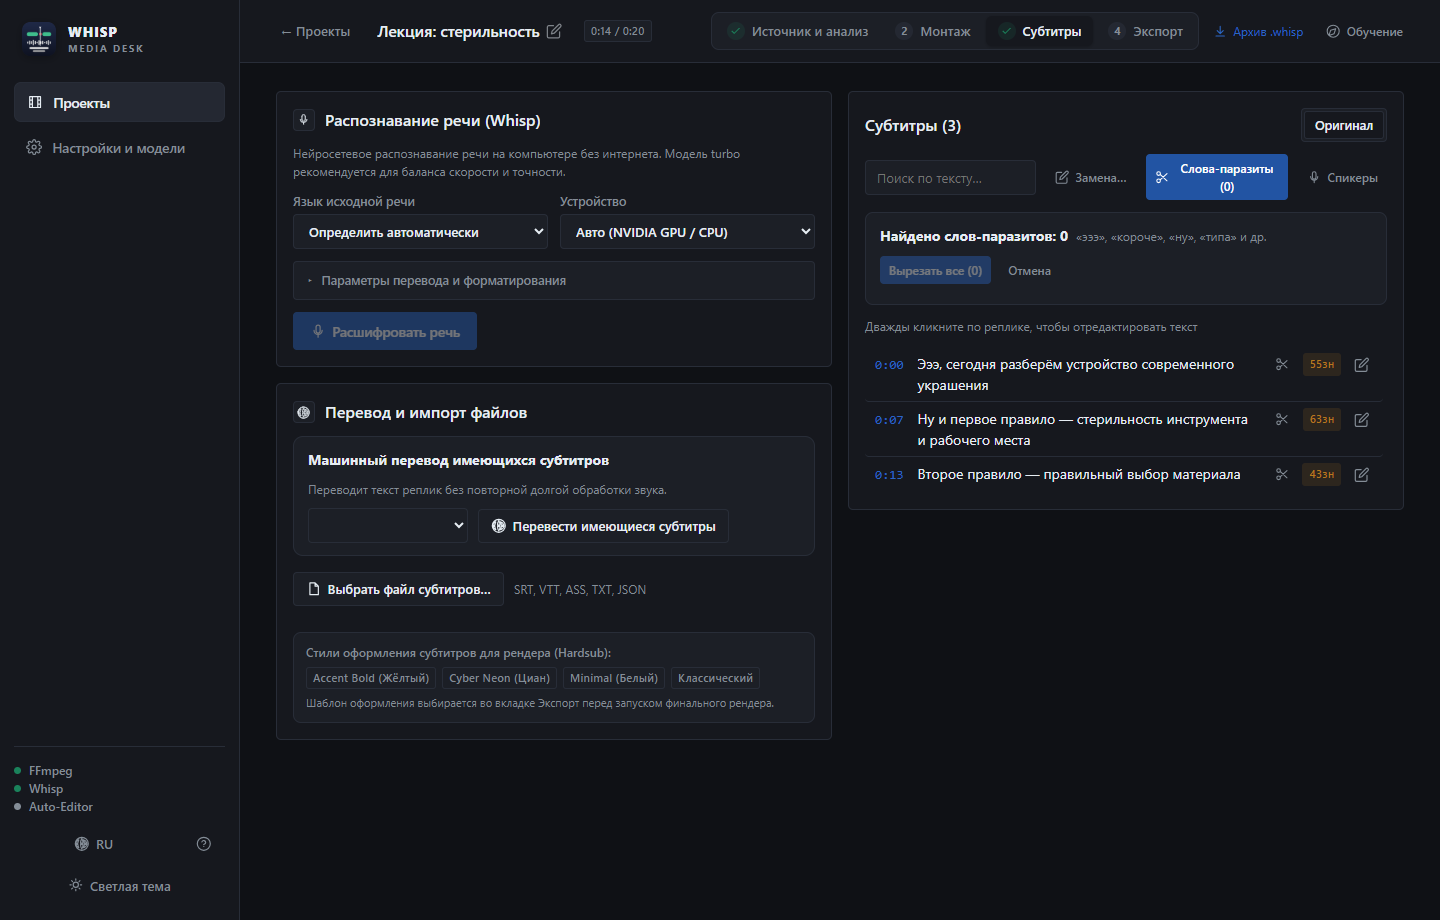
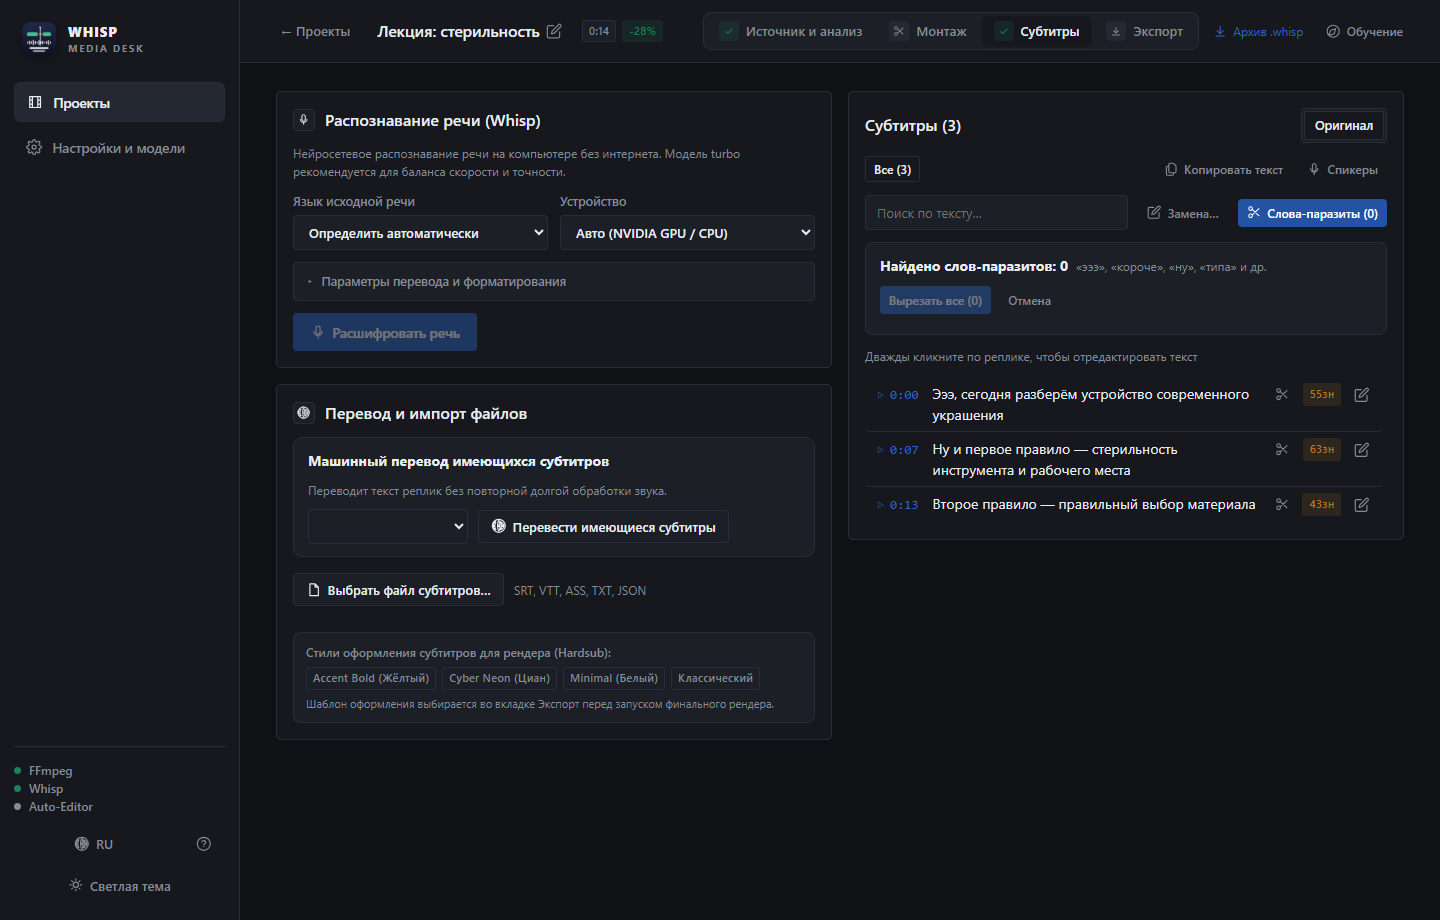
refactor(ui): elevate workstation UX with interactive timecode input, transcript filters, quick copy, and polished studio aesthetics

diff --git a/frontend/src/components/SubtitlesPanel.tsx b/frontend/src/components/SubtitlesPanel.tsx
@@ -52,6 +52,19 @@ export default function SubtitlesPanel({ pid, project: _project, cues, busy, onJ
   const [cleaningFillers, setCleaningFillers] = useState(false);
   const [diarizing, setDiarizing] = useState(false);
 
+  // Фильтр списка субтитров и буфер
+  const [filterSpeaker, setFilterSpeaker] = useState<"ALL" | "SPEAKER_1" | "SPEAKER_2" | "CUT">("ALL");
+  const [copiedTranscript, setCopiedTranscript] = useState(false);
+
+  const copyTranscript = () => {
+    const text = displayCues
+      .map((c) => (c.speaker ? `[${c.speaker === "SPEAKER_2" ? (lang === "ru" ? "Спикер 2" : "Speaker 2") : (lang === "ru" ? "Спикер 1" : "Speaker 1")}]: ${c.text}` : c.text))
+      .join("\n");
+    navigator.clipboard.writeText(text);
+    setCopiedTranscript(true);
+    setTimeout(() => setCopiedTranscript(false), 2200);
+  };
+
   const handleDiarize = async () => {
     setDiarizing(true);
     try {
@@ -164,15 +177,24 @@ export default function SubtitlesPanel({ pid, project: _project, cues, busy, onJ
     return cues;
   }, [viewMode, activeTransCues, cues]);
 
+  const spk1Count = useMemo(() => cues.filter((c) => c.speaker === "SPEAKER_1").length, [cues]);
+  const spk2Count = useMemo(() => cues.filter((c) => c.speaker === "SPEAKER_2").length, [cues]);
+  const cutCount = useMemo(() => cues.filter((c) => isCueCut(c.start_ms, c.end_ms)).length, [cues, payload]);
+
   const found = useMemo(() => {
+    let list = displayCues;
+    if (filterSpeaker === "SPEAKER_1") list = list.filter((c) => c.speaker === "SPEAKER_1");
+    if (filterSpeaker === "SPEAKER_2") list = list.filter((c) => c.speaker === "SPEAKER_2");
+    if (filterSpeaker === "CUT") list = list.filter((c) => isCueCut(c.start_ms, c.end_ms));
+
     const n = q.trim().toLowerCase();
-    if (!n) return displayCues.slice(0, 500);
-    return displayCues.filter((c, i) => {
+    if (!n) return list.slice(0, 500);
+    return list.filter((c, i) => {
       const matchSelf = c.text.toLowerCase().includes(n);
       const matchOther = activeTransCues[i]?.text?.toLowerCase().includes(n) || cues[i]?.text?.toLowerCase().includes(n);
       return matchSelf || matchOther;
     }).slice(0, 500);
-  }, [q, displayCues, activeTransCues, cues]);
+  }, [q, displayCues, activeTransCues, cues, filterSpeaker, payload]);
 
   const importFile = async (f: File) => {
     setError(""); setMsg("");
@@ -452,8 +474,85 @@ export default function SubtitlesPanel({ pid, project: _project, cues, busy, onJ
           </div>
         ) : (
           <>
+            {/* Панель фильтров и быстрых действий */}
+            <div className="row wrap" style={{ justifyContent: "space-between", alignItems: "center", gap: 8 }}>
+              <div className="tabs" style={{ background: "transparent", border: "none", padding: 0, gap: 4 }}>
+                <button
+                  className={`tab-btn ${filterSpeaker === "ALL" ? "active" : ""}`}
+                  onClick={() => setFilterSpeaker("ALL")}
+                  style={{ fontSize: 12, padding: "3px 8px" }}
+                >
+                  {lang === "ru" ? "Все" : "All"} ({displayCues.length})
+                </button>
+                {spk1Count > 0 && (
+                  <button
+                    className={`tab-btn ${filterSpeaker === "SPEAKER_1" ? "active" : ""}`}
+                    onClick={() => setFilterSpeaker("SPEAKER_1")}
+                    style={{ fontSize: 12, padding: "3px 8px" }}
+                  >
+                    {lang === "ru" ? "Спикер 1" : "Speaker 1"} ({spk1Count})
+                  </button>
+                )}
+                {spk2Count > 0 && (
+                  <button
+                    className={`tab-btn ${filterSpeaker === "SPEAKER_2" ? "active" : ""}`}
+                    onClick={() => setFilterSpeaker("SPEAKER_2")}
+                    style={{ fontSize: 12, padding: "3px 8px" }}
+                  >
+                    {lang === "ru" ? "Спикер 2" : "Speaker 2"} ({spk2Count})
+                  </button>
+                )}
+                {cutCount > 0 && (
+                  <button
+                    className={`tab-btn ${filterSpeaker === "CUT" ? "active" : ""}`}
+                    onClick={() => setFilterSpeaker("CUT")}
+                    style={{ fontSize: 12, padding: "3px 8px", color: filterSpeaker === "CUT" ? "var(--bad)" : "inherit" }}
+                  >
+                    {lang === "ru" ? "Вырезанные" : "Cut"} ({cutCount})
+                  </button>
+                )}
+              </div>
+
+              <div className="row" style={{ gap: 6, marginLeft: "auto" }}>
+                <button
+                  className="small ghost"
+                  onClick={copyTranscript}
+                  title={lang === "ru" ? "Скопировать всю транскрипцию в буфер обмена" : "Copy full transcript to clipboard"}
+                  style={{ fontWeight: 500 }}
+                >
+                  <Icon name="copy" /> {copiedTranscript ? (lang === "ru" ? "Скопировано!" : "Copied!") : (lang === "ru" ? "Копировать текст" : "Copy text")}
+                </button>
+                <button
+                  className="small ghost"
+                  onClick={handleDiarize}
+                  disabled={busy || diarizing}
+                  title={lang === "ru" ? "Автоматическое определение и разделение голосов спикеров" : "Speaker Diarization"}
+                >
+                  <Icon name="mic" /> {diarizing ? (lang === "ru" ? "Анализ..." : "Analyzing...") : (lang === "ru" ? "Спикеры" : "Speakers")}
+                </button>
+              </div>
+            </div>
+
             <div className="row">
-              <input className="grow" value={q} onChange={(e) => setQ(e.target.value)} placeholder={t("subs.search")} />
+              <div className="row grow" style={{ position: "relative" }}>
+                <input
+                  className="grow"
+                  value={q}
+                  onChange={(e) => setQ(e.target.value)}
+                  placeholder={t("subs.search")}
+                  style={{ paddingRight: q ? 28 : 10 }}
+                />
+                {q && (
+                  <button
+                    className="ghost small"
+                    onClick={() => setQ("")}
+                    title={lang === "ru" ? "Очистить поиск" : "Clear search"}
+                    style={{ position: "absolute", right: 6, top: "50%", transform: "translateY(-50%)", padding: "2px 6px" }}
+                  >
+                    ✕
+                  </button>
+                )}
+              </div>
               <button
                 className={`small ${showReplace ? "primary" : "ghost"}`}
                 onClick={() => setShowReplace(!showReplace)}
@@ -467,14 +566,6 @@ export default function SubtitlesPanel({ pid, project: _project, cues, busy, onJ
                 title={lang === "ru" ? "Поиск и удаление слов-паразитов" : "Filler words cleaner"}
               >
                 <Icon name="scissors" /> {lang === "ru" ? `Слова-паразиты (${fillerMatches.length})` : `Fillers (${fillerMatches.length})`}
-              </button>
-              <button
-                className="small ghost"
-                onClick={handleDiarize}
-                disabled={busy || diarizing}
-                title={lang === "ru" ? "Автоматическое определение и разделение голосов спикеров" : "Speaker Diarization"}
-              >
-                <Icon name="mic" /> {diarizing ? (lang === "ru" ? "Анализ..." : "Analyzing...") : (lang === "ru" ? "Спикеры" : "Speakers")}
               </button>
               {viewMode === "trans" && transLangs.length > 1 && (
                 <select value={selectedTransLang} onChange={(e) => setSelectedTransLang(e.target.value)}>
@@ -551,7 +642,13 @@ export default function SubtitlesPanel({ pid, project: _project, cues, busy, onJ
 
                 return (
                   <li key={i} onDoubleClick={() => startEdit(i, c.text)} style={isCut ? { background: "rgba(239, 68, 68, 0.05)" } : undefined}>
-                    <button className="link" onClick={() => onJump(c.start_ms)} title={lang === "ru" ? "Перейти в таймлайне" : "Jump in timeline"}>
+                    <button
+                      className="link"
+                      onClick={() => onJump(c.start_ms)}
+                      title={lang === "ru" ? "Перейти и воспроизвести в плеере" : "Jump and play"}
+                      style={{ display: "inline-flex", alignItems: "center", gap: 5 }}
+                    >
+                      <Icon name="play" style={{ width: 10, height: 10, opacity: 0.65 }} />
                       {fmtTime(c.start_ms, false)}
                     </button>
 

diff --git a/frontend/src/components/Editor.tsx b/frontend/src/components/Editor.tsx
@@ -174,6 +174,8 @@ export default function Editor({ pid, project, payload, onPayload, scenes, wave,
   const [audioScrub, setAudioScrub] = useState(() => {
     try { return localStorage.getItem("whisp_audio_scrub") !== "false"; } catch { return true; }
   });
+  const [editingTc, setEditingTc] = useState(false);
+  const [tcInput, setTcInput] = useState("");
 
   const rangeEnd = useRef<number | null>(null);
   const segsRef = useRef(segs);
@@ -734,7 +736,37 @@ export default function Editor({ pid, project, payload, onPayload, scenes, wave,
             ▶
           </button>
         </div>
-        <span className="tc" title={lang === "ru" ? "Текущий таймкод (чч:мм:сс.мс)" : "Current timecode"}>{fmtTime(current)}</span>
+        {editingTc ? (
+          <input
+            autoFocus
+            value={tcInput}
+            onChange={(e) => setTcInput(e.target.value)}
+            onBlur={() => {
+              const ms = parseTime(tcInput);
+              if (ms != null) seek(ms);
+              setEditingTc(false);
+            }}
+            onKeyDown={(e) => {
+              if (e.key === "Enter") {
+                const ms = parseTime(tcInput);
+                if (ms != null) seek(ms);
+                setEditingTc(false);
+              }
+              if (e.key === "Escape") setEditingTc(false);
+            }}
+            className="tc"
+            style={{ width: 115, padding: "3px 8px" }}
+          />
+        ) : (
+          <span
+            className="tc"
+            onClick={() => { setTcInput(fmtTime(current)); setEditingTc(true); }}
+            title={lang === "ru" ? "Кликните для ввода точного таймкода" : "Click to edit timecode"}
+            style={{ cursor: "text" }}
+          >
+            {fmtTime(current)}
+          </span>
+        )}
 
         <button onClick={() => setMarkIn(snapMs(current))}>[ In</button>
         <button onClick={() => setMarkOut(snapMs(current))}>Out ]</button>
@@ -927,14 +959,18 @@ export default function Editor({ pid, project, payload, onPayload, scenes, wave,
                   <td>{fmtTime(s.source_end_ms)}</td>
                   <td>{((s.source_end_ms - s.source_start_ms) / 1000).toFixed(2)} с</td>
                   <td>
-                    <b>{s.action === "KEEP" ? (lang === "ru" ? "Оставить" : "Keep") : (lang === "ru" ? "Удалить" : "Cut")}</b>
+                    <span className={`badge ${s.action === "KEEP" ? "ok" : "bad"}`} style={{ fontSize: 11 }}>
+                      {s.action === "KEEP" ? (lang === "ru" ? "Оставить" : "Keep") : (lang === "ru" ? "Удалить" : "Cut")}
+                    </span>
                     {s.locked ? " [Lock]" : ""}
                   </td>
                   <td>{REASONS[s.reason] ?? s.reason}</td>
                   <td>
-                    {s.manual ? (lang === "ru" ? "вручную" : "manual")
-                      : s.reviewed ? (lang === "ru" ? "проверено" : "reviewed")
-                      : (lang === "ru" ? "не проверено" : "unreviewed")}
+                    <span className={`badge ${s.manual ? "accent" : s.reviewed ? "ok" : "muted"}`} style={{ fontSize: 11, background: "transparent" }}>
+                      {s.manual ? (lang === "ru" ? "вручную" : "manual")
+                        : s.reviewed ? (lang === "ru" ? "проверено" : "reviewed")
+                        : (lang === "ru" ? "не проверено" : "unreviewed")}
+                    </span>
                   </td>
                   <td className="actions" onClick={(e) => e.stopPropagation()}>
                     <button title="Play" onClick={() => playRange(s.source_start_ms, s.source_end_ms)}>▶</button>

diff --git a/frontend/src/styles.css b/frontend/src/styles.css
@@ -168,6 +168,11 @@ input, select, textarea {
   border-radius: var(--radius-sm); padding: 7px 11px; font-size: 13px; transition: border-color .12s ease;
 }
 input:focus, select:focus, textarea:focus { border-color: var(--accent); outline: none; }
+button:focus-visible, a.btn:focus-visible, input:focus-visible, select:focus-visible, textarea:focus-visible {
+  outline: none;
+  border-color: var(--accent);
+  box-shadow: 0 0 0 1px var(--panel), 0 0 0 3px var(--accent-hover);
+}
 input[type=checkbox], input[type=radio] { padding: 0; accent-color: var(--accent); width: 15px; height: 15px; cursor: pointer; }
 
 button, a.btn {
@@ -258,10 +263,10 @@ details.more[open] > summary { padding-bottom: 2px; }
 .proj-grid { display: grid; grid-template-columns: repeat(auto-fill, minmax(320px, 1fr)); gap: 16px; }
 .proj {
   background: var(--panel); border: 1px solid var(--line); border-radius: var(--radius); overflow: hidden;
-  text-decoration: none; color: var(--text); display: flex; flex-direction: column; transition: border-color .15s ease;
-  box-shadow: 0 2px 10px rgba(0,0,0,0.15);
+  text-decoration: none; color: var(--text); display: flex; flex-direction: column; transition: border-color .15s ease, transform .15s ease, box-shadow .15s ease;
+  box-shadow: 0 2px 8px rgba(0,0,0,0.12);
 }
-.proj:hover { border-color: var(--line-strong); text-decoration: none; }
+.proj:hover { border-color: var(--line-strong); text-decoration: none; transform: translateY(-2px); box-shadow: 0 8px 24px rgba(0,0,0,0.22); }
 .proj .thumb { aspect-ratio: 16/9; background: var(--panel2); display: grid; place-items: center; color: var(--muted); position: relative; }
 .proj .thumb img { width: 100%; height: 100%; object-fit: cover; display: block; }
 .proj .thumb .dur { position: absolute; right: 8px; bottom: 8px; background: rgba(0,0,0,0.8); color: #fff; padding: 2px 6px; border-radius: 4px; font-size: 11px; font-variant-numeric: tabular-nums; }
@@ -281,7 +286,8 @@ details.more[open] > summary { padding-bottom: 2px; }
   background: none; border: none; color: var(--muted); font-weight: 500; font-size: 13px; cursor: pointer;
   transition: background .12s, color .12s;
 }
-.step .n { width: 18px; height: 18px; border-radius: 50%; display: grid; place-items: center; background: var(--raised); font-size: 11px; font-weight: 700; color: var(--muted); }
+.step .n { width: 20px; height: 20px; border-radius: 4px; display: grid; place-items: center; background: var(--raised); font-size: 11px; font-weight: 700; color: var(--muted); flex: none; }
+.step .n .icon { width: 12px; height: 12px; }
 .step:hover:not(:disabled) { background: var(--raised); color: var(--text); }
 .step.active { background: var(--panel); color: var(--text); font-weight: 600; box-shadow: 0 1px 3px rgba(0,0,0,0.25); }
 .step.active .n { background: var(--accent); color: #fff; }
@@ -506,6 +512,15 @@ details.more[open] > summary { padding-bottom: 2px; }
   min-width: 100px; font-size: 13px; font-weight: 600; letter-spacing: 0.03em; background: var(--tc-bg);
   border: 1px solid var(--line); border-radius: var(--radius-sm); padding: 4px 10px; color: var(--tc-text); text-align: center;
   display: inline-flex; align-items: center; justify-content: center;
+  transition: border-color .12s ease;
+}
+.tc:hover {
+  border-color: var(--line-strong);
+}
+input.tc {
+  width: 115px;
+  border-color: var(--accent);
+  outline: none;
 }
 
 /* ---------- таймлайн со студийными дорожками V1 / A1 ---------- */

diff --git a/frontend/src/components/ProjectView.tsx b/frontend/src/components/ProjectView.tsx
@@ -61,11 +61,11 @@ export default function ProjectView({ pid, onClose }: { pid: string; onClose: ()
     }
   };
 
-  const steps: [Tab, string][] = [
-    ["setup", t("step.setup")],
-    ["edit", t("step.editor")],
-    ["subs", t("step.subtitles")],
-    ["export", t("step.export")],
+  const steps: [Tab, string, string][] = [
+    ["setup", t("step.setup"), "sliders"],
+    ["edit", t("step.editor"), "scissors"],
+    ["subs", t("step.subtitles"), "captions"],
+    ["export", t("step.export"), "download"],
   ];
 
   const projectSteps: TourStep[] = [
@@ -202,12 +202,19 @@ export default function ProjectView({ pid, onClose }: { pid: string; onClose: ()
           </span>
         )}
         {payload && (
-          <span className="badge" style={{ marginLeft: 8 }}>
-            {fmtTime(payload.stats.output_ms, false)} / {fmtTime(payload.stats.source_ms, false)}
-          </span>
+          <div className="row" style={{ marginLeft: 6, gap: 6, alignItems: "center" }}>
+            <span className="badge" title={lang === "ru" ? "Итоговый хронометраж" : "Output duration"}>
+              {fmtTime(payload.stats.output_ms, false)}
+            </span>
+            {payload.stats.source_ms > payload.stats.output_ms && (
+              <span className="badge ok" title={lang === "ru" ? "Сокращение хронометража" : "Time saved"}>
+                -{Math.round(((payload.stats.source_ms - payload.stats.output_ms) / payload.stats.source_ms) * 100)}%
+              </span>
+            )}
+          </div>
         )}
         <nav className="stepper" aria-label="Steps" data-tour="proj-stepper">
-          {steps.map(([k, label], i) => (
+          {steps.map(([k, label, icon]) => (
             <button
               key={k}
               data-tour={`step-${k}`}
@@ -215,7 +222,7 @@ export default function ProjectView({ pid, onClose }: { pid: string; onClose: ()
               onClick={() => setTab(k)}
               aria-current={tab === k ? "step" : undefined}
             >
-              <span className="n">{done[k] ? <Icon name="check" /> : i + 1}</span>
+              <span className="n">{done[k] ? <Icon name="check" /> : <Icon name={icon} />}</span>
               {label}
             </button>
           ))}
